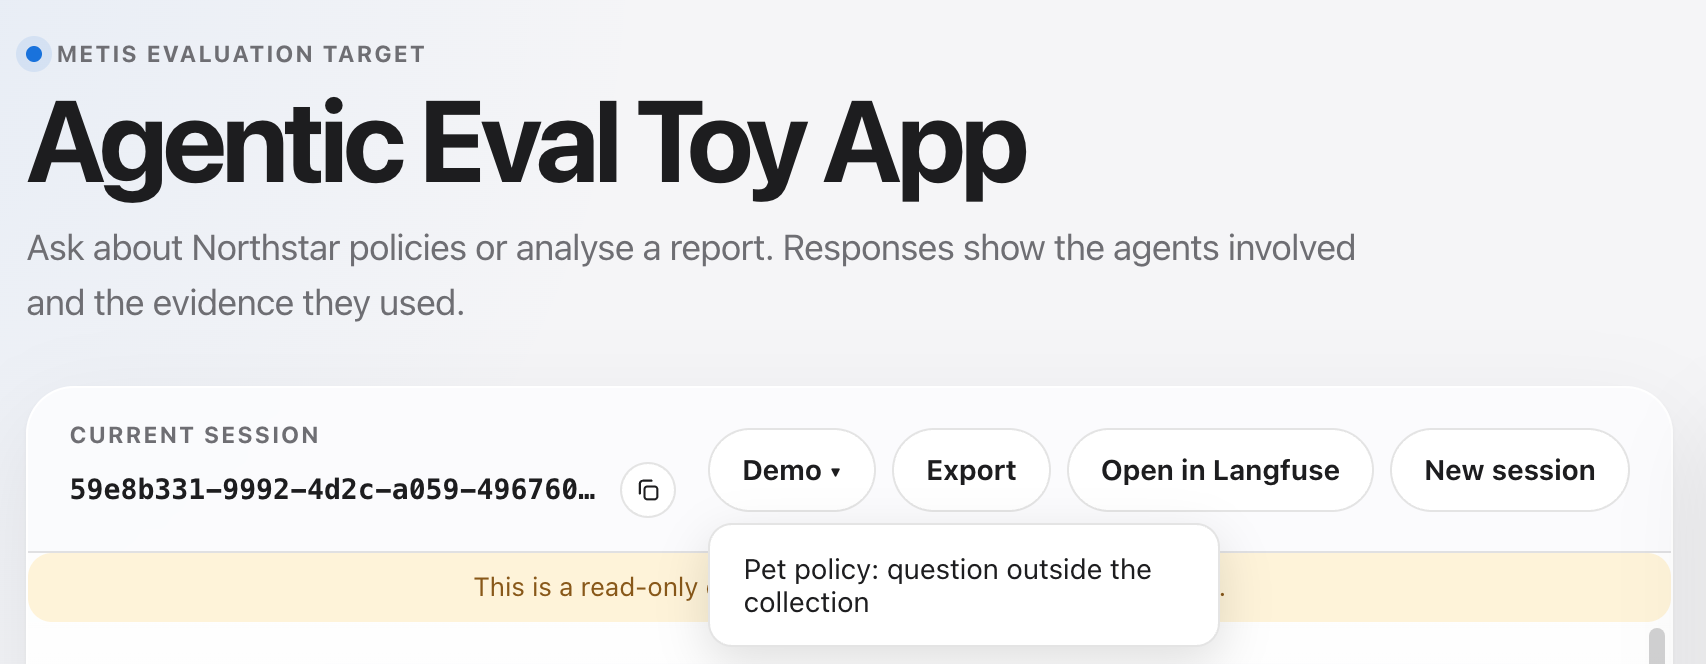
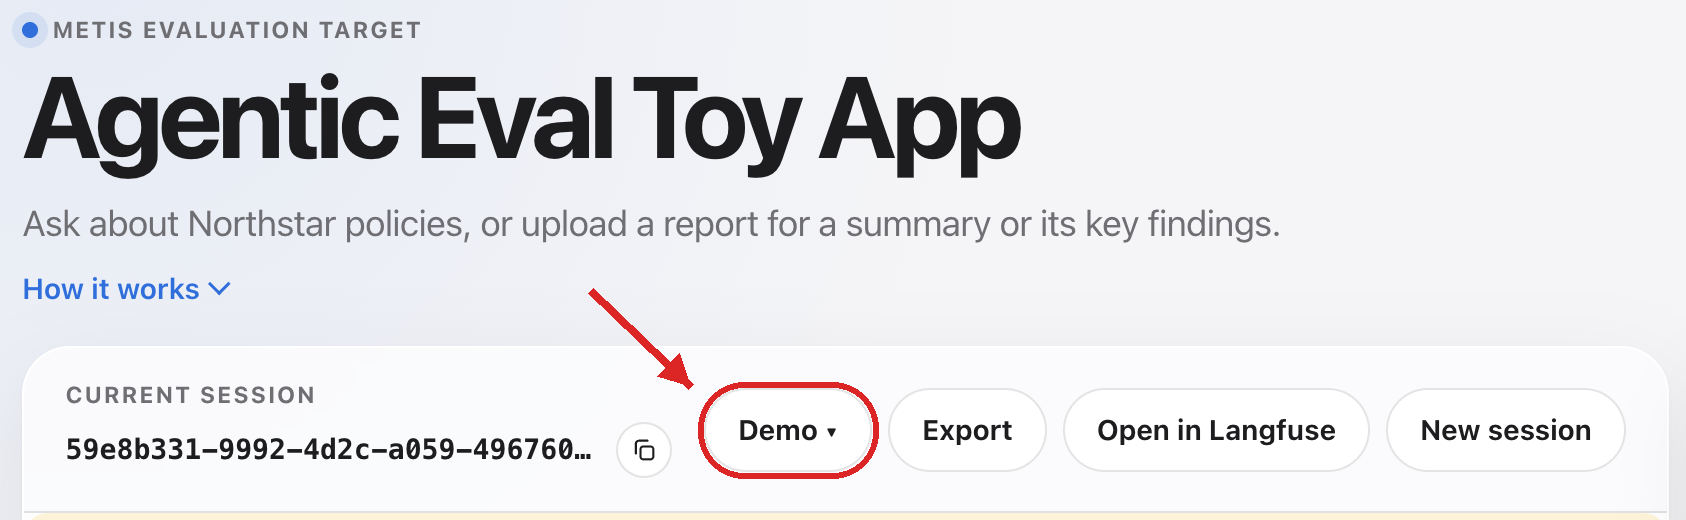
docs(website): highlight what to click in step 1 of the beginner walkthrough

diff --git a/website/docs-site/docs/beginner-walkthrough.md b/website/docs-site/docs/beginner-walkthrough.md
@@ -62,12 +62,14 @@ clarifying question, hand over to the policy specialist, or hand over to the rep
 
 Open the [toy app](https://demo1-agentic-eval-toyapp.metis.aip.gov.sg/). Select **Demo** to try a pre-made session.
 
-![The Demo menu of the toy app](./assets/toyapp-demo-menu.png)
+![The toy app, with the Demo button highlighted](./assets/toyapp-demo-menu.png)
 
-### 1b. Try a demo session
+### 1b. Inspect a demo session
 
 Choose **Pet policy: question outside the collection**. The employee asks for a plain yes or no,
 but the policy collection has no answer.
+
+![The Demo menu, with the Pet policy demo highlighted](./assets/toyapp-demo-choose-pet.png)
 
 ![The toy app in a demo session](./assets/toyapp-demo-session.png)
 
@@ -76,16 +78,26 @@ but the policy collection has no answer.
 The toy app records each conversation in Langfuse as a <Term>trace</Term>. Select **Open in
 Langfuse** to open the trace of the demo session that you just watched.
 
-![The toy app's session bar, with the Open in Langfuse button](./assets/toyapp-open-in-langfuse.png)
+![The toy app's session bar, with the Open in Langfuse button highlighted](./assets/toyapp-open-in-langfuse.png)
 
 :::note
 Langfuse asks you to log in. Use the Langfuse login that the workshop facilitators give you.
 :::
 
-Select the trace, and find the `coordinator-action` step. It shows which of the four actions the
-app chose for the pet question. Langfuse shows the steps that led to the final answer, as well as
-the answer itself, and METIS grades both. You come back to Langfuse in step 6, to read the
-conversations that METIS runs.
+The session opens with the employee's question and the app's reply. On the right, select the
+**agent-turn** trace to open it and see each step the app took.
+
+![The demo session in Langfuse, with the agent-turn trace highlighted](./assets/toyapp-demo-langfuse-session.png)
+
+The trace shows a tree of the steps the app took for one message. Select `coordinator-action` to
+see which of the four actions the app chose for the pet question. Here it chose `delegate-rag`,
+which hands the question to the policy specialist: that specialist then searched the knowledge
+base before it answered.
+
+![A trace in Langfuse, with its tree of steps and the coordinator-action step highlighted](./assets/toyapp-demo-langfuse-trace.png)
+
+Langfuse shows the steps that led to the final answer, as well as the answer itself, and METIS
+grades both. You come back to Langfuse in step 6, to read the conversations that METIS runs.
 
 **Checkpoint:** name the four actions the toy app can take, and say which one it chose in the demo.
 
